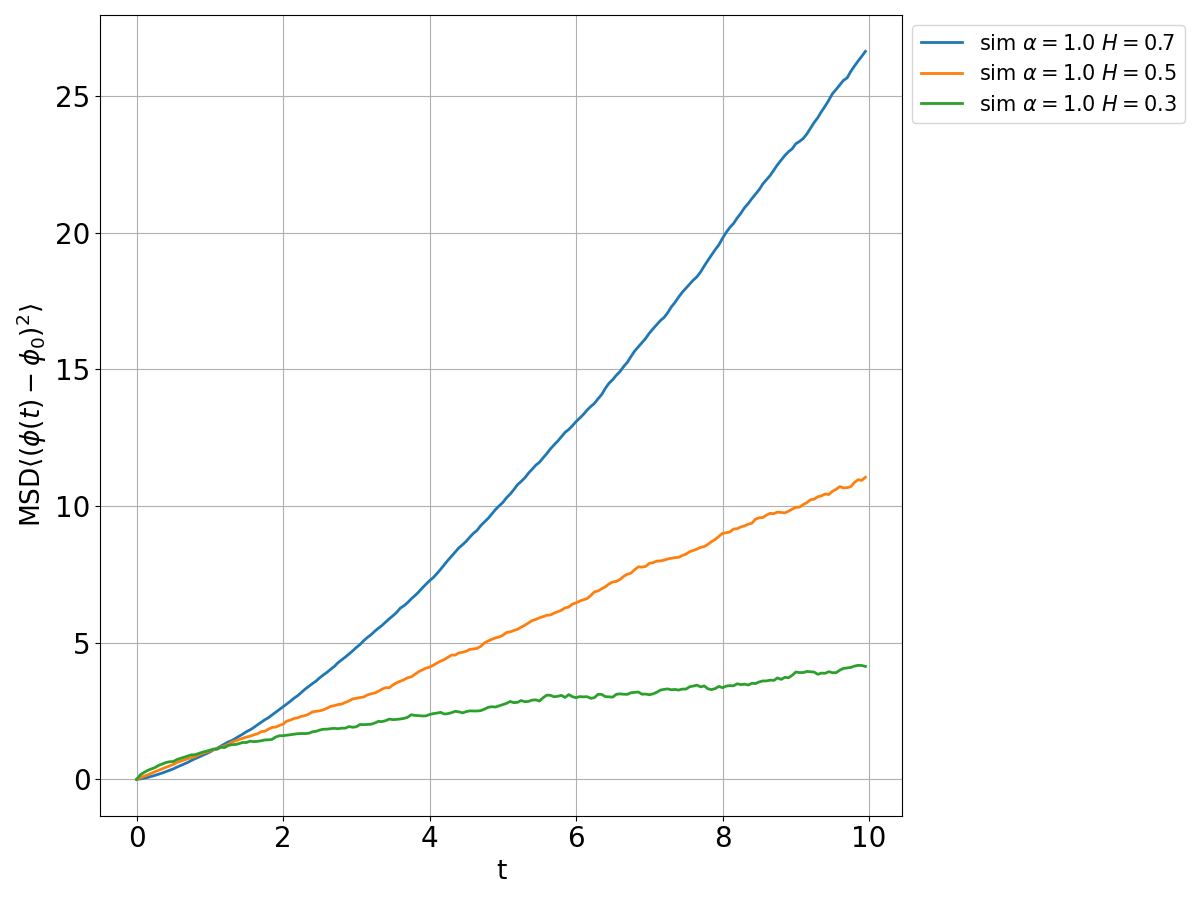
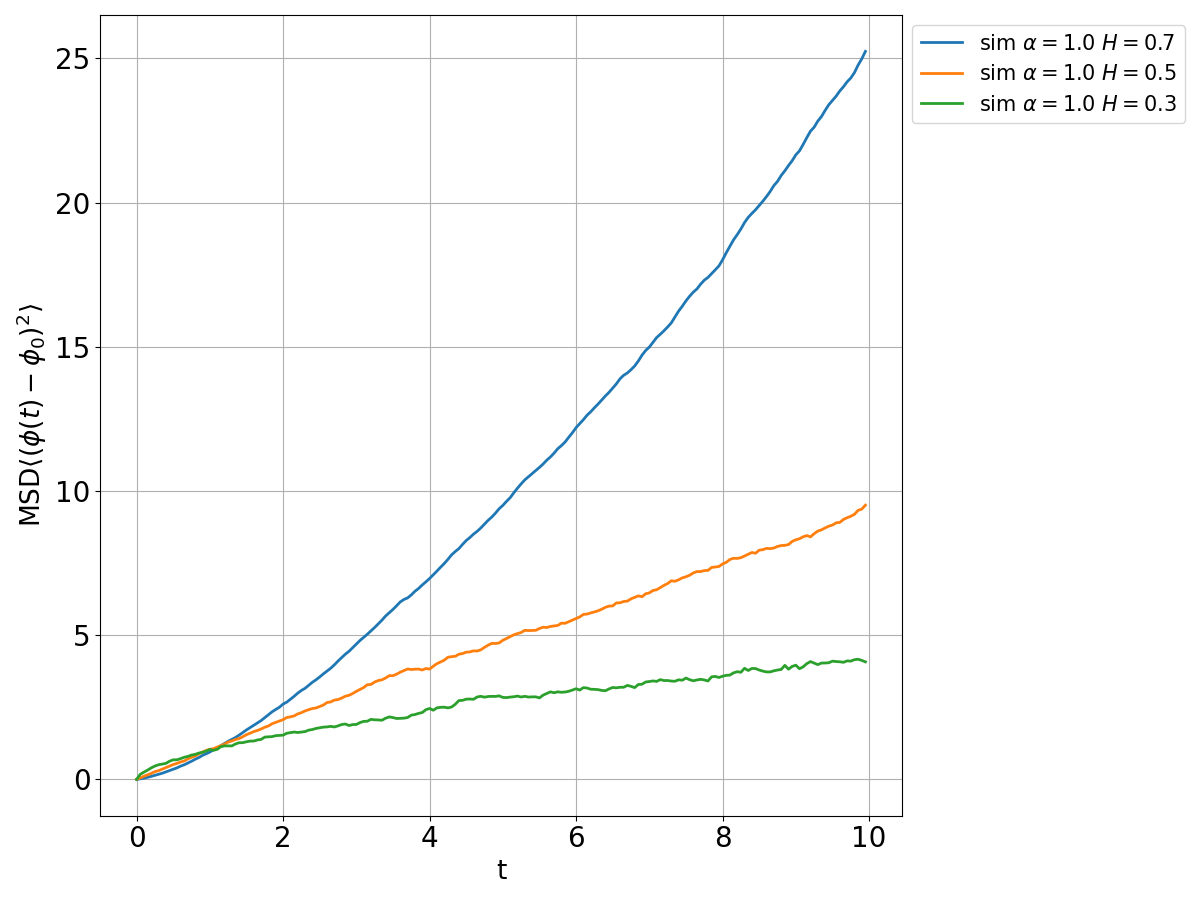
changing A_H

diff --git a/src/world.py b/src/world.py
@@ -30,12 +30,14 @@ class Base:
         self.trajectory_sol = []
 
         # Noise Amplitude
-        if self.alpha == 1:
-            self.A_H = 1#/np.sqrt(2)
-            # self.A_H = 1/(np.sqrt(2*H)*gamma(H+1/2))
 
-        else:
+        if self.alpha == (2-2*H):
             self.A_H = 1/np.sqrt(H*(2*H-1)*gamma(2*H-1))
+            # print('scaling')
+        else: 
+            self.A_H = 1#/np.sqrt(2)
+        # else:
+        #     self.A_H = 1/(np.sqrt(2*H)*gamma(H+1/2))
 
     # --------- Noise Generator --------- #
     def make_B_H(self, method='daviesharte'):
@@ -131,7 +133,8 @@ class Angular(Base):
         nominator = H*gamma(2*H)
         denominator = (alpha+H-1)*gamma(alpha)*gamma(alpha+2*H-1)
         self.var_an = (nominator/denominator)*(self.t**(2*alpha+2*H-2))
-        return (nominator/denominator)*((time*self.h)**(2*alpha+2*H-2))
+        return (2/gamma(alpha+1))*((time*self.h)**(alpha))
+        # return (nominator/denominator)*((time*self.h)**(2*alpha+2*H-2))
 
     def propagator(self, time_index):
         """

diff --git a/scripts/plot.py b/scripts/plot.py
@@ -6,12 +6,12 @@ import plotting
 import utilities
 
 mode = 'phi'
-alphas = [1.]   # include both cases
-Hs = [0.7, 0.5, 0.3]            # only used if alpha==1
+alphas = [0.5]   # include both cases
+Hs = [0.75]#, 0.5, 0.3]            # only used if alpha==1
 realizations = 1000
 Tf = 10
 h = 0.05
-sets = 5
+sets = 1
 
 # Plotting
 fig1, ax1 = plt.subplots(figsize=(12, 9))
